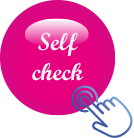
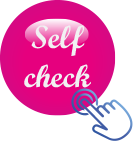
style: made button text black

diff --git a/src/app/pages/modal/set-profile/set-profile.page.html b/src/app/pages/modal/set-profile/set-profile.page.html
@@ -28,8 +28,8 @@
 
   <div padding>
       <ion-text color="dark" no-margin>
-        Lorem ipsum dolor sit amet, consectetur adipisicing elit. Illum odio placeat incidunt nesciunt atque ratione quisquam, fugit
-        omnis maxime adipisci excepturi dignissimos aliquam asperiores itaque unde sequi? Minus, quia, dolore?
+        Once you have set your age and gender, we'll personalize 
+        what you see in your app based on your preferences.
       </ion-text>
     </div>
 

diff --git a/src/global.scss b/src/global.scss
@@ -162,11 +162,11 @@ ion-item {
       margin: 100 5%;
   
       .logo {
-        width: 60px;
-        height: 60px;
+        width: 70px;
+        height: 70px;
         margin: 100px auto 8px;
         border-radius: 10%;
-        background: url("/assets/img/ionic4start-ico.png") no-repeat;
+        background: url("/assets/icon/bht.png") no-repeat;
         background-size: 100%;
       }
   

diff --git a/src/app/pages/landing/landing.page.scss b/src/app/pages/landing/landing.page.scss
@@ -5,12 +5,12 @@
   }
 }
 .applogo {
-  width: 60px;
-  height: 60px;
+  width: 70px;
+  height: 70px;
   margin: 100px auto 8px;
   margin-top: 70%;
   border-radius: 10%;
-  background: url("/assets/img/ionic4start-ico.png") no-repeat;
+  background: url("/assets/icon/bht.png") no-repeat;
   background-size: 100%;
 }
 .takeTourButton {

diff --git a/src/app/pages/home-results/home-results.page.html b/src/app/pages/home-results/home-results.page.html
@@ -22,7 +22,7 @@
 
   <ion-card class="main-card">
     <ion-card-header>
-      <ion-card-title color="light">
+      <ion-card-title color="light" text-center>
         You are welcome to <br> <b> MY BREAST HEALTH </b>
       </ion-card-title>
       <ion-card-subtitle class="dashboard-subtitle" color="light">

diff --git a/src/app/pages/about/about.page.html b/src/app/pages/about/about.page.html
@@ -10,7 +10,7 @@
 <ion-content>
 
   <div class="bg-profile" text-center padding>
-    <img src="assets/img/ionic4start-ico.png">
+    <img src="assets/icon/bhlogo.png">
   </div>
 
   <ion-card class="bg-white" no-margin>
